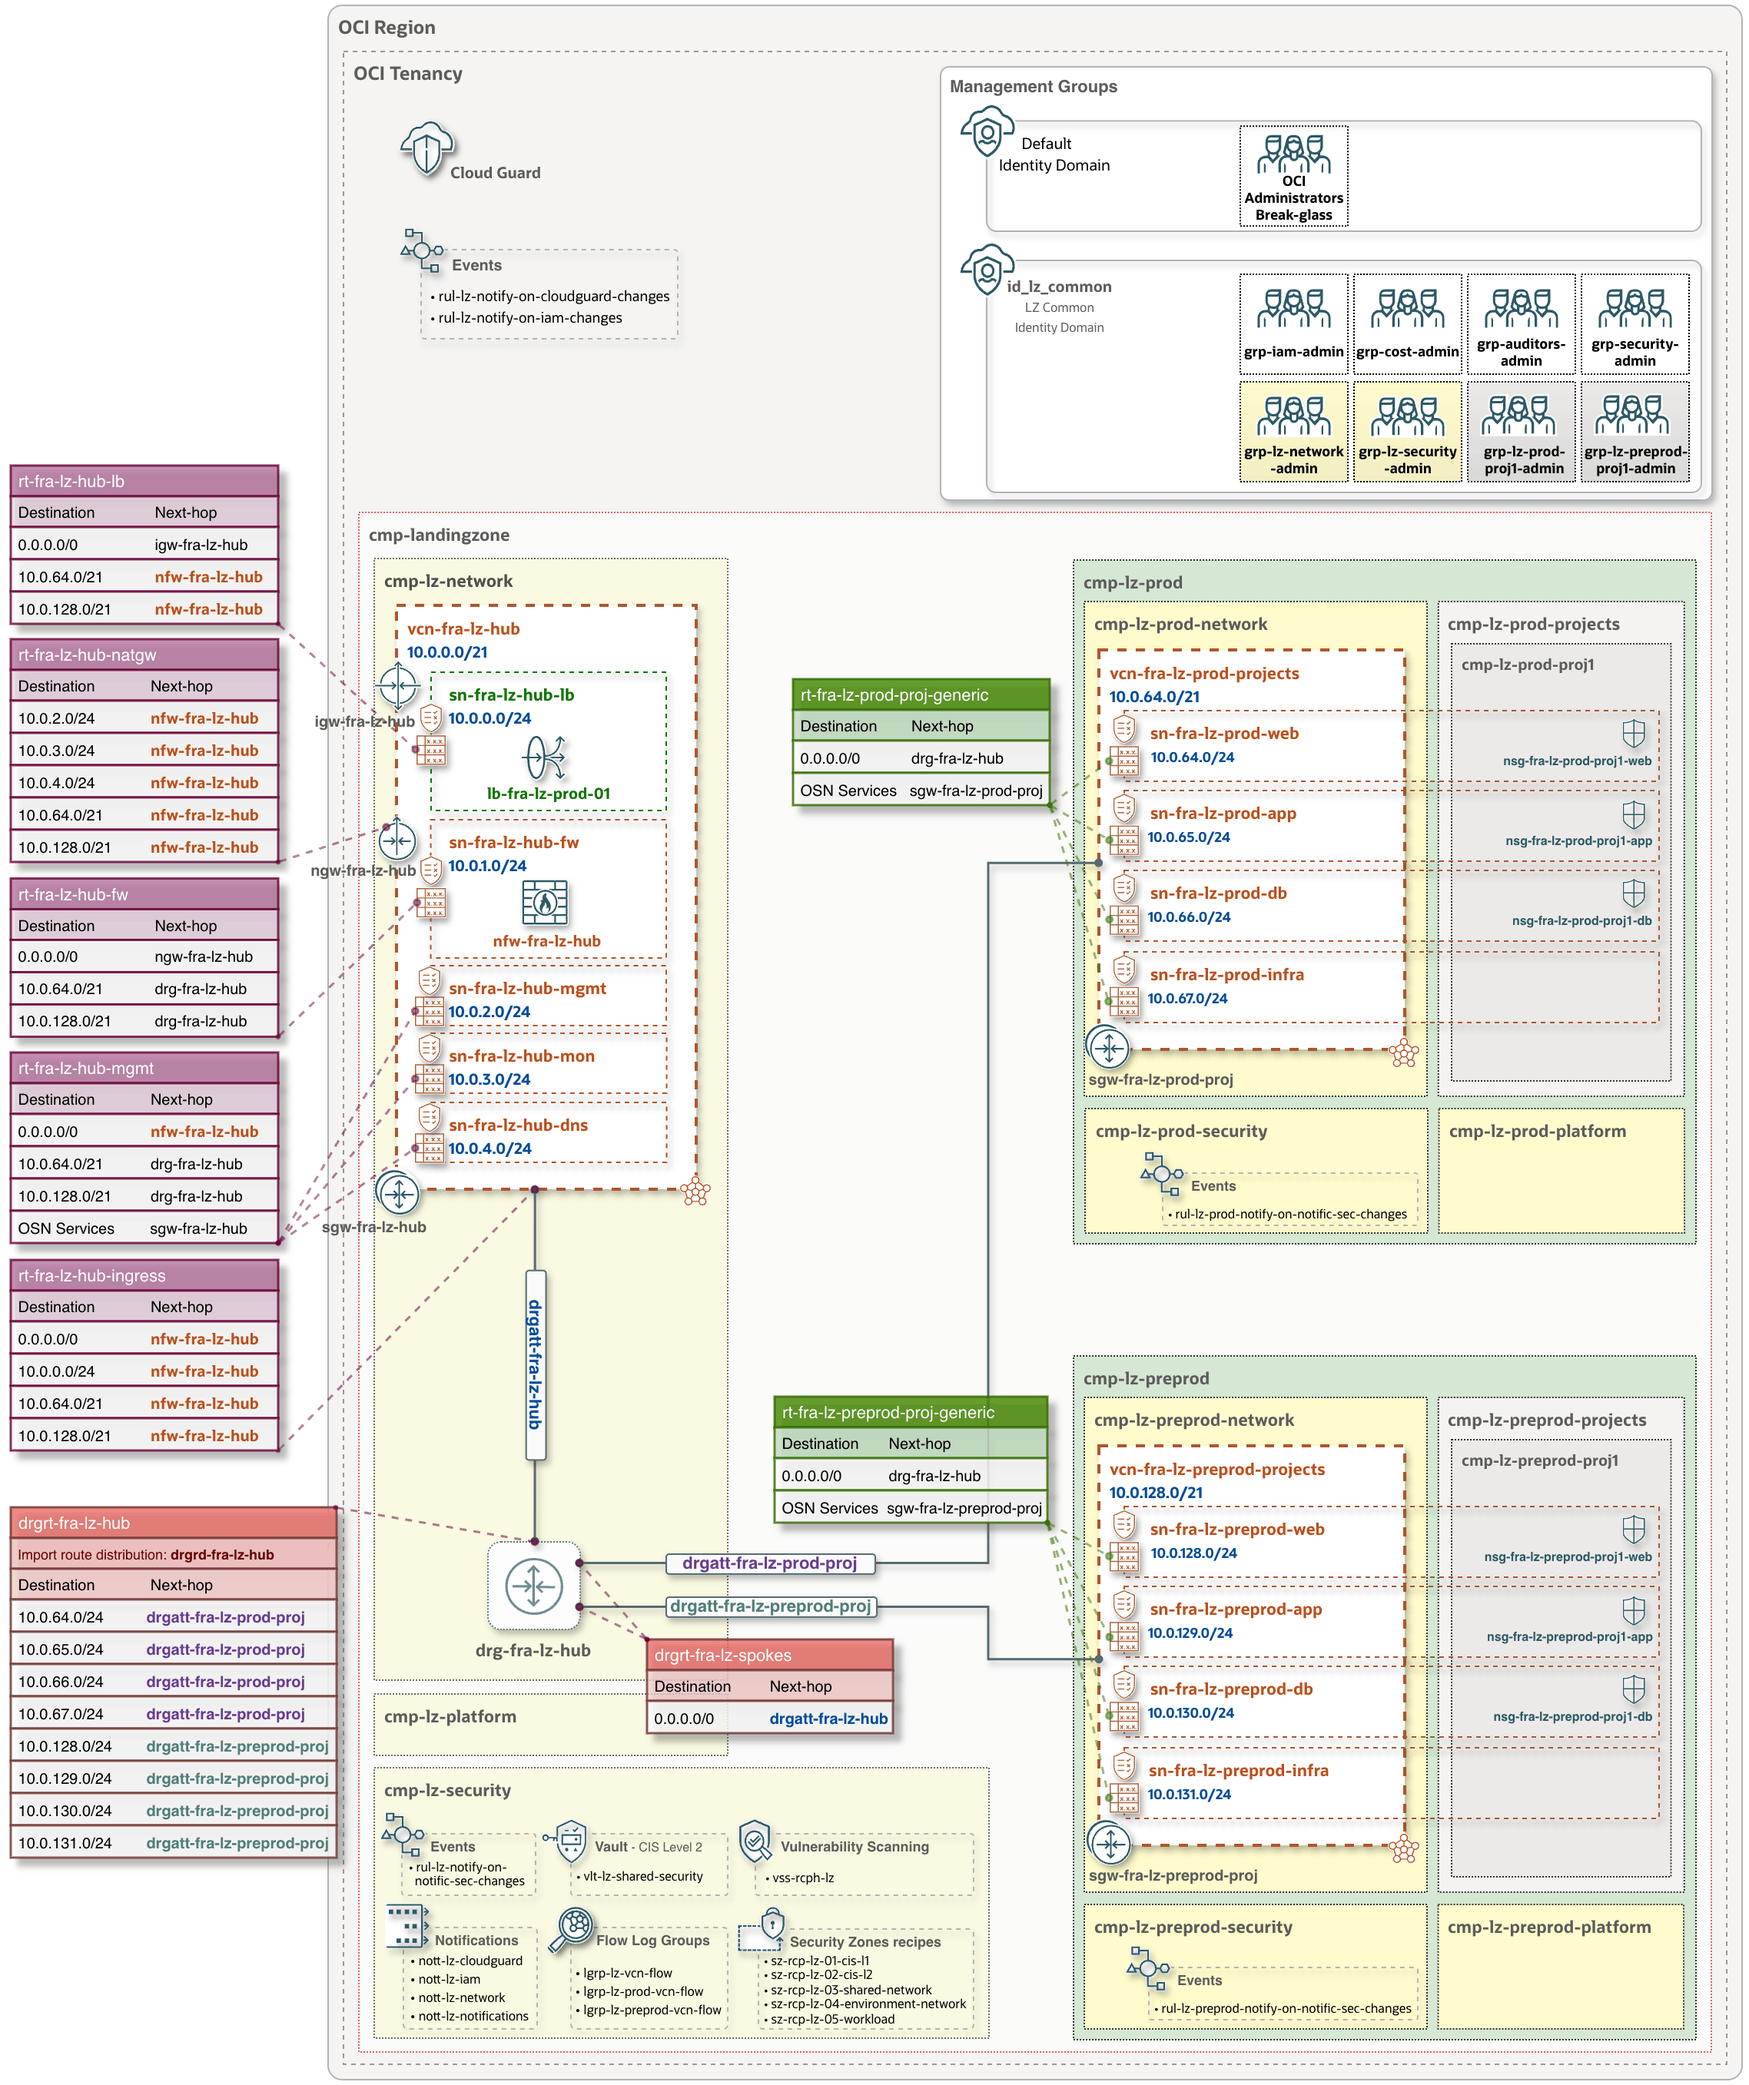
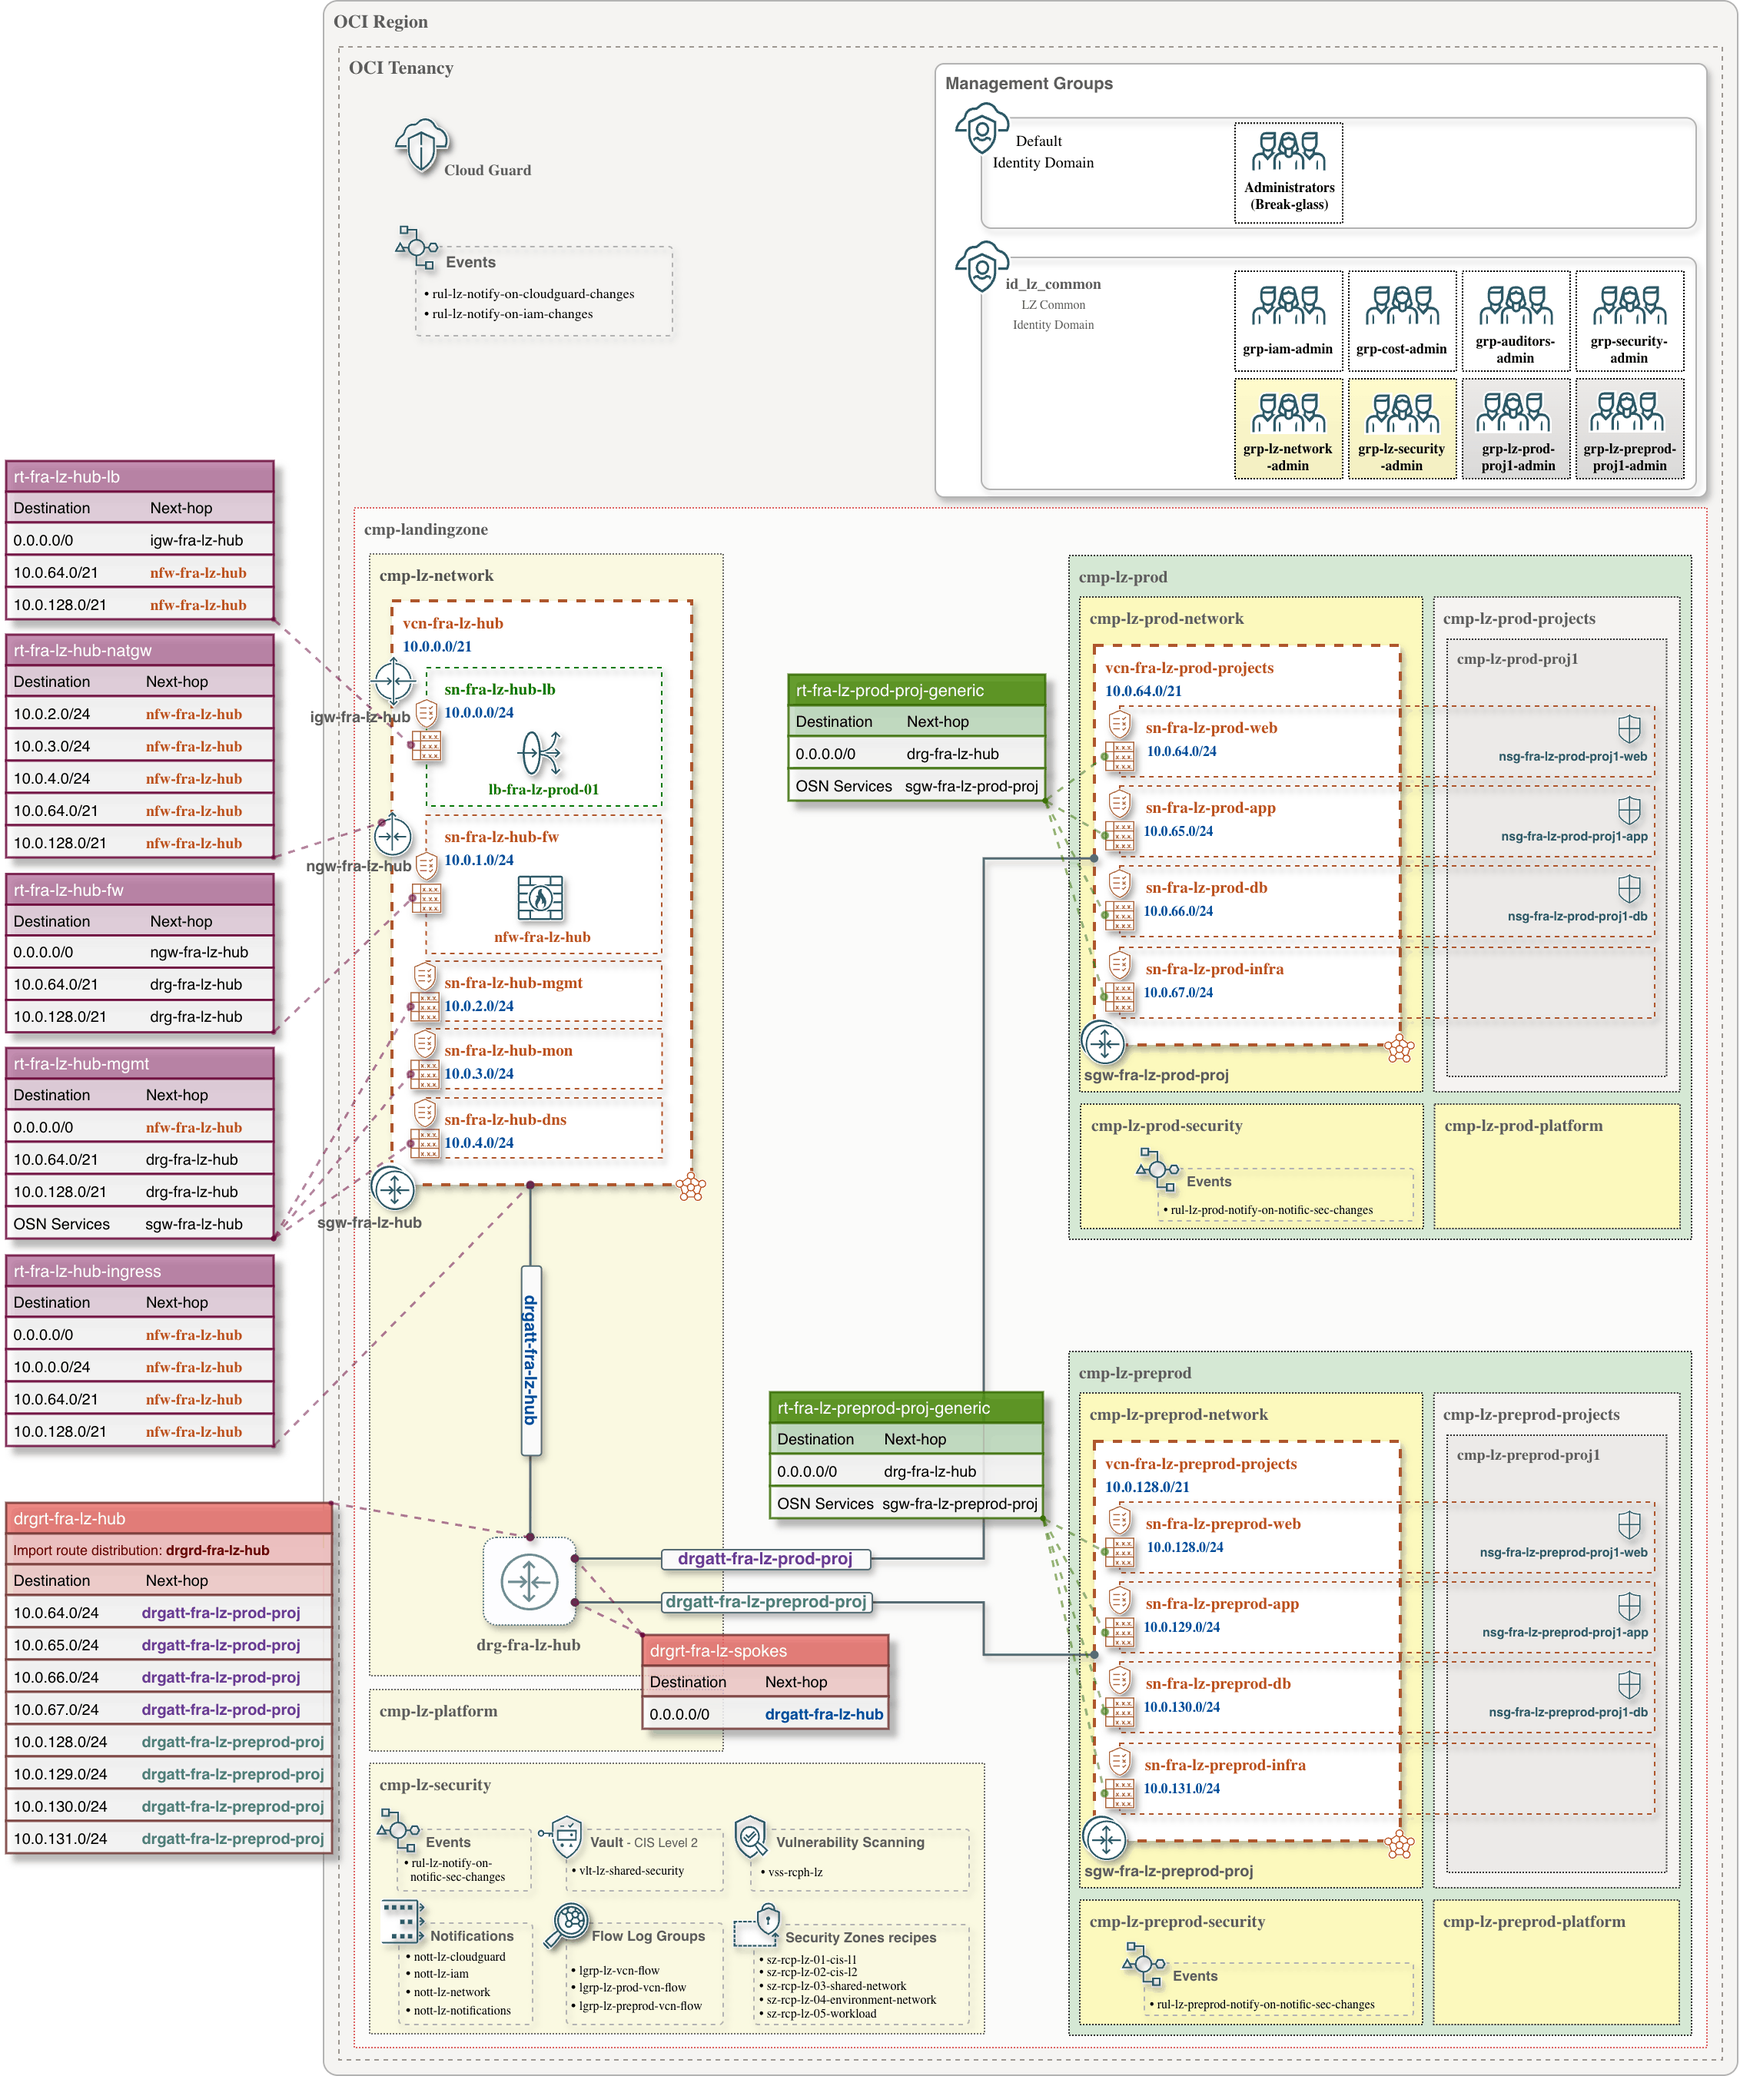
docs(one-oe): align security baseline guidance and refresh hub diagrams

diff --git a/blueprints/one-oe/design/readme.md b/blueprints/one-oe/design/readme.md
@@ -158,11 +158,17 @@ The following diagram presents the tenancy structure up to L5, introducing the *
 &nbsp; 
 
 
-The next two diagrams depict the **security zones** of the landing zones and the general **security posture**. For more details on the tenancy structure levels (L3-L5), related IAM with OCI Groups and Policies, and security posture applied to each element refer to the [OCI Open LZ One-OE Drawio - Security Tabs](https://github.com/oci-landing-zones/oci-landing-zone-operating-entities/blob/content/blueprints/one-oe/design/OCI_Open_LZ_One-OE-Blueprint.drawio). 
+The published One-OE deployment creates a single **Security Zone Recipe 01**, using the selected CIS Level 1 or Level 2 restrictions. Its zone targets `cmp-landingzone` and covers its subcompartments, including the shared network, security, platform and workload environments. The recipe resource is stored in `cmp-lz-security`; this placement does not limit the zone's enforcement scope to that compartment.
+
+Additional environment zones are optional. Deploy **Recipe 02** for each selected environment through the [OCI Security Zones add-on](../../../addons/oci-security-zones/README.md) in a separate stack. These zones are not part of the base One-OE deployment. See the [runtime guide](../runtime/one-stack/readme.md#existing-deployments) before updating a deployment that already manages additional zones.
+
+The linked Drawio design may retain earlier multi-recipe labels. For the deployed Security Zone baseline, use the runtime configuration files and the scope described above.
 
 &nbsp; 
 
-<img src="images/3_security_view_security_zones.png" alt= “” width="1000" height="value">
+<img src="../../../addons/oci-security-zones/images/security-zones.png" alt="One-OE Security Zones: Recipe 01 on the landing-zone compartment and optional Recipe 02 on an environment compartment" width="1000">
+
+Recipe 01 is included in the base blueprint. The Recipe 02 zone shown for an environment is optional and requires the add-on.
 
 &nbsp; 
 

diff --git a/blueprints/one-oe/runtime/one-stack/known_issues.md b/blueprints/one-oe/runtime/one-stack/known_issues.md
@@ -13,10 +13,11 @@ Suggestion: Please update the parameter(s) in the Terraform config as per error 
 
 ```
 
-If you see it, you would need to disable Cloud Guard manually from the console:
-Main Menu -> Identity and Security -> Cloud Guard -> Configuration -> Disable Cloud Guard
+Review which Security Zone is still associated with the compartment and which Terraform state owns it. The base One-OE stack manages Recipe 01 on `cmp-landingzone`; optional Recipe 02 environment zones belong to their separate add-on stacks.
 
-Then, apply remove the conflicting compartment manually and proceed with the Stack destroy operation.
+For an approved decommission, review the destruction plans for the owning stacks and remove any optional environment zones before their compartments. Ensure the base stack removes its landing-zone zone before deleting `cmp-landingzone`. Keep each resource under a single owning state; do not remove compartments manually to bypass a failed plan.
+
+Deleting a zone changes policy enforcement and Cloud Guard targets. Verify the resulting associations and targets before retrying compartment deletion. Disabling tenancy-wide Cloud Guard is not the default remedy. See [add-on maintenance](../../../../addons/oci-security-zones/README.md#5-maintenance) and Oracle's [Deleting a Security Zone](https://docs.oracle.com/en-us/iaas/Content/security-zone/using/delete-security-zone.htm) guidance.
 
 &nbsp; 
 

diff --git a/blueprints/one-oe/readme.md b/blueprints/one-oe/readme.md
@@ -8,6 +8,8 @@ Welcome to the **OCI Open LZ One-OE Blueprint**.
 
 This model onboards **one Operating Entity (OE)** with its **environments**, **platforms**, and **projects** in **one tenancy**. It fits any organizational scope, such as one Organization Unit, LoB, OpCo, Department, or Partner. Find below the assets available to guide your design and deployment activities.
 
+The published deployment includes only **Security Zone Recipe 01**, applied to `cmp-landingzone` with the selected CIS level. Optional **Recipe 02** zones for selected environments are deployed separately through the [OCI Security Zones add-on](../../addons/oci-security-zones/README.md). See the [runtime guide](runtime/one-stack/readme.md#security-baseline-and-optional-zones) for the baseline and existing-deployment considerations.
+
 
 &nbsp; 
 

diff --git a/blueprints/one-oe/runtime/one-stack/one_oe_hub_a.md b/blueprints/one-oe/runtime/one-stack/one_oe_hub_a.md
@@ -8,7 +8,9 @@
 
  ### Deployment diagram
 
-The diagram provides a comprehensive visual representation of the key OCI resources - such as Identity Domains, groups, compartments, IP CIDR ranges, and route table configurations - including their exact naming conventions, as defined in the One-OE JSON configurations.
+The diagram illustrates the deployment topology, including Identity Domains, groups, compartments, IP CIDR ranges and route tables.
+
+> **Security Zones:** the current JSON files create only **Recipe 01** on `cmp-landingzone`, using the selected CIS level. Optional **Recipe 02** environment zones are managed separately through the [OCI Security Zones add-on](../../../../addons/oci-security-zones/README.md).
 
 <img src="../../design/images/oneoe_hub_a_deployment_view.png" width="900" height="value">
 

diff --git a/blueprints/one-oe/runtime/one-stack/one_oe_hub_b.md b/blueprints/one-oe/runtime/one-stack/one_oe_hub_b.md
@@ -8,7 +8,9 @@
 
  ### Deployment diagram
 
-The diagram provides a comprehensive visual representation of the key OCI resources - such as Identity Domains, groups, compartments, IP CIDR ranges, and route table configurations - including their exact naming conventions, as defined in the One-OE JSON configurations.
+The diagram illustrates the deployment topology, including Identity Domains, groups, compartments, IP CIDR ranges and route tables.
+
+> **Security Zones:** the current JSON files create only **Recipe 01** on `cmp-landingzone`, using the selected CIS level. Optional **Recipe 02** environment zones are managed separately through the [OCI Security Zones add-on](../../../../addons/oci-security-zones/README.md).
 
 <img src="../../design/images/oneoe_hub_b_deployment_view.png" width="900" height="value">
 

diff --git a/blueprints/one-oe/runtime/one-stack/one_oe_hub_c.md b/blueprints/one-oe/runtime/one-stack/one_oe_hub_c.md
@@ -7,7 +7,9 @@
 
  ### Deployment diagram
 
-The diagram provides a comprehensive visual representation of the key OCI resources - such as Identity Domains, groups, compartments, IP CIDR ranges, and route table configurations - including their exact naming conventions, as defined in the One-OE JSON configurations.
+The diagram illustrates the deployment topology, including Identity Domains, groups, compartments, IP CIDR ranges and route tables.
+
+> **Security Zones:** the current JSON files create only **Recipe 01** on `cmp-landingzone`, using the selected CIS level. Optional **Recipe 02** environment zones are managed separately through the [OCI Security Zones add-on](../../../../addons/oci-security-zones/README.md).
 
 <img src="../../design/images/oneoe_hub_c_deployment_view.png" width="900" height="value">
 

diff --git a/blueprints/one-oe/runtime/one-stack/one_oe_hub_e.md b/blueprints/one-oe/runtime/one-stack/one_oe_hub_e.md
@@ -8,7 +8,9 @@
 
  ### Deployment diagram
 
-The diagram provides a comprehensive visual representation of the key OCI resources - such as Identity Domains, groups, compartments, IP CIDR ranges, and route table configurations - including their exact naming conventions, as defined in the One-OE JSON configurations.
+The diagram illustrates the deployment topology, including Identity Domains, groups, compartments, IP CIDR ranges and route tables.
+
+> **Security Zones:** the current JSON files create only **Recipe 01** on `cmp-landingzone`, using the selected CIS level. Optional **Recipe 02** environment zones are managed separately through the [OCI Security Zones add-on](../../../../addons/oci-security-zones/README.md).
 
 <img src="../../design/images/oneoe_hub_e_deployment_view.png" width="900" height="value">
 
